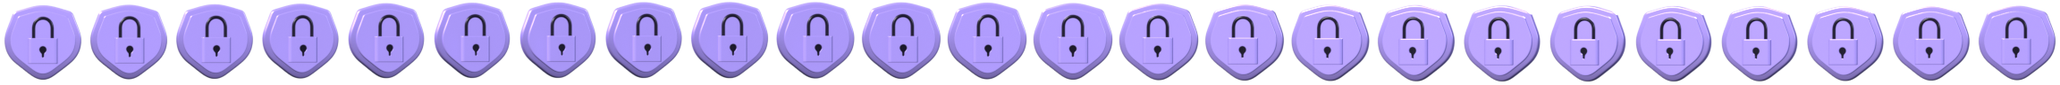
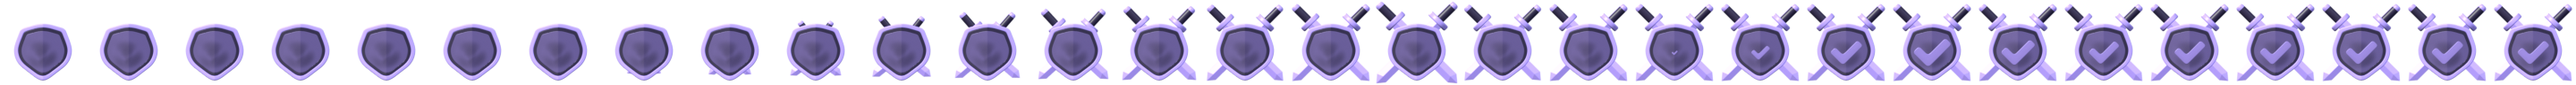
Draw swords and a tick in the Shields hover animation
Replaces the shield artwork with the newer asset, whose swords and tick are separate geometry, and animates the sequence the product wanted: the shield rests bare, two swords slide out from behind it and meet with an impact, then a tick appears and holds. Playback is now a single pass that holds the assembled pose instead of a loop, because looping dragged the swords back into the shield. Records the vendor-confirmed licence terms and the regeneration pipeline, including the rule that the source scene and textures never enter this repository.

diff --git a/native/src/browser_window.cpp b/native/src/browser_window.cpp
@@ -46,8 +46,8 @@ constexpr UINT_PTR kProgressTimer = 1;
 constexpr UINT_PTR kLibrarySaveTimer = 2;
 constexpr UINT_PTR kDownloadSaveTimer = 3;
 constexpr UINT_PTR kSessionSaveTimer = 4;
-// Hover playback for the rendered shield. 33 ms is one frame at 30 fps, which is
-// the rate the strip is rendered at.
+// Hover playback for the rendered shield: one pass at the rate the strip was
+// rendered at, then it holds. 33 ms is one frame at 30 fps.
 constexpr UINT_PTR kShieldAnimTimer = 7;
 constexpr UINT kShieldFrameMs = 33;
 constexpr wchar_t kShieldStripFile[] = L"mtk_shield_hover.png";
@@ -2197,8 +2197,9 @@ void BrowserWindow::DrawButton(const DRAWITEMSTRUCT& item) {
 
   bool painted_icon = false;
   if (item.CtlID == kShieldId && shield_strip_.valid()) {
-    // The rendered shield replaces the glyph. Frame 0 is the resting pose, so a
-    // button that is not hovered still shows the same artwork.
+    // Frame 0 is the resting pose: a bare shield. Hover plays the sequence once
+    // and holds the last frame, where the swords are crossed and the tick is
+    // shown.
     RECT icon = bounds;
     const int inset = Scaled(6);
     InflateRect(&icon, -inset, -inset);
@@ -2372,8 +2373,12 @@ LRESULT BrowserWindow::HandleMessage(UINT message, WPARAM w_param, LPARAM l_para
       } else if (w_param == kUpdatePeriodicTimer) {
         StartUpdateCheck(false);
       } else if (w_param == kShieldAnimTimer) {
-        if (shield_hovering_ && shield_strip_.valid()) {
-          shield_frame_ = (shield_frame_ + 1) % shield_strip_.frame_count();
+        // The shield sequence plays once and holds its final pose: the swords
+        // are drawn, they meet, and the tick stays. Looping it would make the
+        // swords retract into the shield again, which reads as a glitch.
+        if (shield_hovering_ && shield_strip_.valid() &&
+            shield_frame_ + 1 < shield_strip_.frame_count()) {
+          ++shield_frame_;
           if (shield_) InvalidateRect(shield_, nullptr, FALSE);
         } else {
           KillTimer(window_, kShieldAnimTimer);

diff --git a/tests/icon_strip_tests.cpp b/tests/icon_strip_tests.cpp
@@ -11,8 +11,8 @@ MTK_TEST(ShieldStripLoadsAsSquareFrames) {
   mtk::icons::Strip strip;
   MTK_EXPECT_TRUE(strip.Load(L"mtk_shield_hover.png"));
   MTK_EXPECT_TRUE(strip.valid());
-  // The hover loop is rendered as one period at 30 fps.
-  MTK_EXPECT_EQ_INT(strip.frame_count(), 24);
+  // One second at 30 fps: swords drawn, impact, then the tick.
+  MTK_EXPECT_EQ_INT(strip.frame_count(), 30);
 }
 
 MTK_TEST(MissingStripLeavesLoaderInvalid) {

diff --git a/docs/TOOLBAR_ICON_ANIMATION.md b/docs/TOOLBAR_ICON_ANIMATION.md
@@ -1,0 +1,110 @@
+# Toolbar Shields icon animation
+
+The Shields button plays a short 3D sequence when the pointer rests on it: the
+shield is drawn, two swords slide out from behind it and meet, and a tick
+appears. This document records how that artwork is produced, because the shipped
+file is a binary that no build step recreates.
+
+## What ships
+
+| Path | Role |
+|---|---|
+| `native/resources/mtk_shield_hover.png` | Rendered frame strip that ships (committed) |
+| `scripts/build_icon_strip.py` | Packs a rendered PNG sequence into that strip |
+| `native/src/icon_strip.{h,cpp}` | Decodes, scales and blits one frame per repaint |
+
+The 3D source asset is **not** in this repository, and must never be added. See
+the licensing section below.
+
+## How it is delivered
+
+The chrome is Win32, so it has neither a video decoder nor a hosted browser to
+play a loop in. The animation is therefore a single PNG whose square frames sit
+side by side: `mtk_shield_hover.png` is 2880x96, which is 30 frames of 96 px.
+
+`native/src/icon_strip.cpp` decodes it once with the Windows Imaging Component,
+scales the whole strip to the size the button needs with Fant resampling, caches
+that scaled copy per size, and composites one frame with `AlphaBlend`. Frames are
+premultiplied, so rounded edges stay clean over the gradient toolbar. Scaling per
+size is what keeps the icon sharp at 100%, 125%, 150% and 200% display scaling.
+
+Hover is observed on the button itself, because an owner-draw control repaints
+only when Windows asks it to. `BrowserWindow::ShieldProc` arms `TME_LEAVE` on
+every `WM_MOUSEMOVE` and drives a 33 ms timer, which is one frame at 30 fps.
+
+Playback is **one pass that holds the last frame**, not a loop. The final frame is
+the assembled state — swords crossed, tick shown — so holding it looks
+deliberate. Looping would drag the swords back into the shield and read as a
+glitch. Leaving the button resets to frame 0, the bare shield.
+
+A missing, oversized or wrongly shaped strip is not an error: `Strip::Load` fails
+and the button falls back to its flat glyph. `scripts/stage_release.ps1` still
+fails the release build in that case, so a broken asset cannot ship silently.
+
+## Sequence
+
+At 30 fps, one second total:
+
+| Frames | What happens |
+|---|---|
+| 1-8 | Bare shield. The swords are tucked behind it and scaled down, so they are hidden by the shield silhouette. |
+| 9-16 | The swords slide out along their own diagonals, growing and straightening as they go. |
+| 17-18 | Impact: a 6% overshoot on frame 17 and a slight recoil on frame 18. |
+| 19-27 | The tick scales up from nothing, overshoots to 1.18 and settles. |
+| 28-30 | Hold, which is also the resting pose while the pointer stays on the button. |
+
+## Regenerating the strip
+
+1. Open the source asset in Blender and repoint its textures to the downloaded
+   texture folder; the shipped `.blend` uses relative paths that will not resolve.
+2. Separate the mesh by loose parts and join them into four objects: the shield,
+   the two swords, and the tick. Set each origin to its own bounds centre.
+3. Set up the icon render: EEVEE Next, transparent film, `Standard` view
+   transform, an orthographic camera fitted to all four parts, and three low
+   suns (white key, blue fill, violet rim).
+4. Tint to brand: desaturate the asset albedo, then multiply by `#7c5cff`, the
+   accent already used for the badge and the block page shield. Tinting this way
+   fixes the hue while keeping the sculpted light and shade of the texture.
+5. Keyframe the sequence above and render 30 PNG frames at 96 px.
+6. Pack them:
+
+   ```
+   python scripts/build_icon_strip.py build/shield_frames native/resources/mtk_shield_hover.png --size 96
+   ```
+
+7. Update the expected frame count in `tests/icon_strip_tests.cpp` if it changed,
+   then run `scripts/run_tests.ps1`.
+
+Blender and Pillow are build-time tools only. The packed strip is committed, so an
+ordinary build needs neither.
+
+## Licensing
+
+The current artwork is derived from a Magnific (formerly Freepik) 3D asset
+downloaded under the account holder's subscription. The vendor confirmed this
+exact use: a PNG rendered from a downloaded 3D asset may be used as a toolbar
+button icon in a desktop application UI, as a secondary element of the interface.
+
+Three constraints follow, and they are recorded in `THIRD_PARTY_NOTICES.md`:
+
+- The `.blend` and texture files must never be committed here, shipped in the
+  installer, or handed to anyone. Only rendered output may be delivered.
+- The artwork must not be used as a logo, trademark, or application icon. The
+  application icon is a separate, product-owned file.
+- It stays a secondary interface element, never a product's main visual.
+
+Because those constraints block future branding use, a product-owned shield
+should be modelled before this artwork appears anywhere near brand identity.
+
+## Verified
+
+- The shipped strip loads as 30 square frames, draws every frame, wraps
+  out-of-range indices, and scales to 24, 30, 36 and 48 px, all covered by
+  `tests/icon_strip_tests.cpp` against the real file.
+- Frame measurements confirm the sequence: coverage is 35% while only the shield
+  shows, rises to 51.8% once the swords are out, peaks at 54.6% on the impact
+  frame, and the tick region brightens from 110 to 138 as the tick appears.
+- With the animation running, the browser stayed responsive across forced
+  repaints and settled when the pointer left.
+- Not verified by eye in this environment: the browser window opens off-screen
+  under automation, so on-screen appearance still needs a human check.

diff --git a/THIRD_PARTY_NOTICES.md b/THIRD_PARTY_NOTICES.md
@@ -22,3 +22,20 @@ The current workspace contains a legacy Electron prototype. Its bundled Electron
 | Proprietary modules | Product-owned source | Planned | Keep separate; do not copy Brave Shields or other MPL code. |
 
 No dependency may be introduced that could impose proprietary-source disclosure without documented legal approval.
+
+## Licensed artwork in the shipped application
+
+| Component | Source | Form that ships | Licence constraints |
+|---|---|---|---|
+| Toolbar Shields button animation (`native/resources/mtk_shield_hover.png`) | Magnific (formerly Freepik) 3D asset `security-shield-icon-009`, downloaded under the account holder's subscription | Rendered PNG frame strip only | Usable as a secondary element of the application interface. Confirmed with the vendor for this exact use: a PNG rendered from a downloaded 3D asset may be used as a toolbar button icon in a desktop application UI. |
+| Block page shield loop (`native/resources/mtk_block_shield.webm`), Shields panel beacon (`native/resources/mtk_siren_alert.webm`) | Product-owned Blender scenes in `assets/blender/` | Rendered WebM | Product-owned; no third-party restriction. |
+
+Rules that must not be broken for the Magnific-derived artwork:
+
+1. **No source redistribution.** The `.blend` and texture files must never be committed to this repository, placed in the installer payload, or delivered to anyone. Only rendered output ships. The current pipeline satisfies this: the source asset stays outside the repository and only the PNG strip is committed.
+2. **No logo or trademark use.** This artwork must not become the application icon, brand mark, store listing icon, or any registered trademark. The application icon (`native/resources/mtk_browser.ico`) is deliberately a separate, product-owned asset.
+3. **Secondary element only.** The artwork stays as interface decoration for the Shields button. It must not become the main visual of a product, a sticker or filter that users manipulate, or an item offered for sale on its own.
+4. **Copyright stays with the original author.** No ownership may be claimed over the asset or renders derived from it.
+5. **Attribution depends on the plan.** Free-tier accounts must credit Magnific in the application credits or store description; Premium and higher do not. Re-check this before publishing if the subscription tier changes.
+
+Because rules 1 and 2 constrain future branding work, a product-owned replacement should be rendered before this artwork is used anywhere near brand identity.
